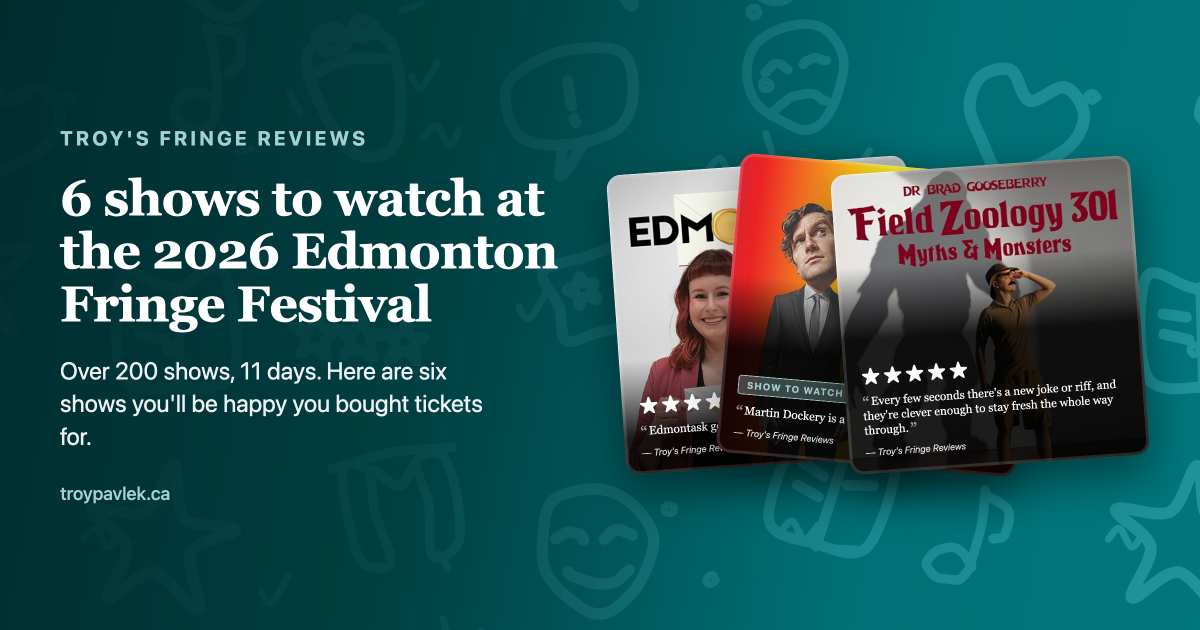
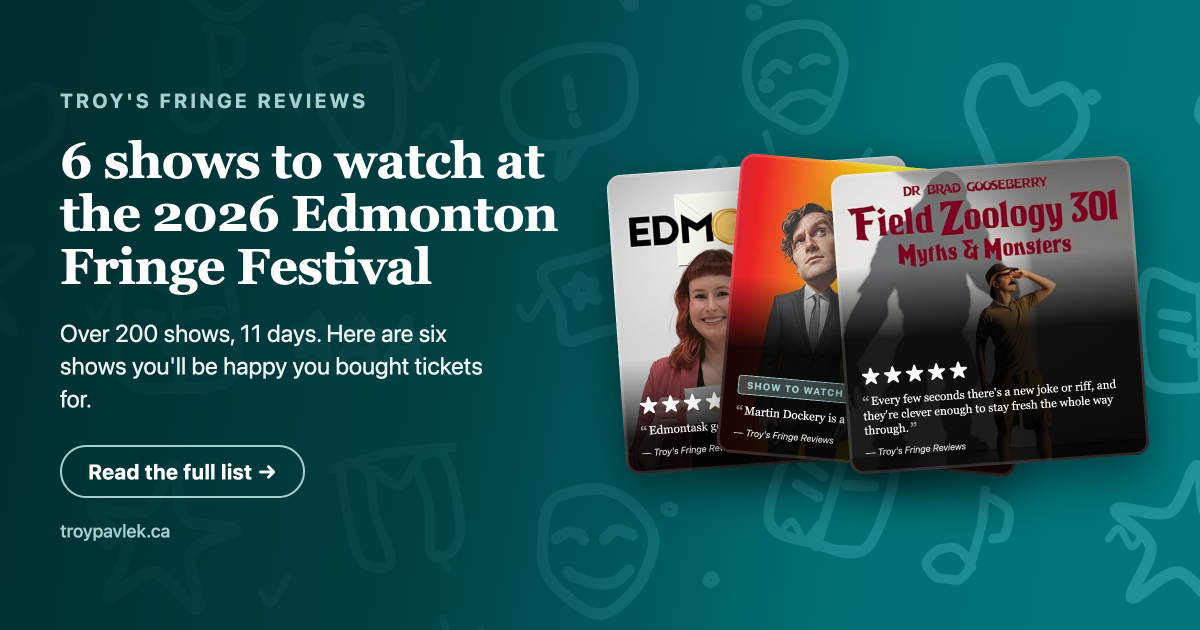
Fringe reviews

diff --git a/resources/views/layout.antlers.html b/resources/views/layout.antlers.html
@@ -4,13 +4,11 @@
         <meta charset="utf-8">
         <meta http-equiv="X-UA-Compatible" content="IE=edge">
         <meta name="viewport" content="width=device-width, initial-scale=1">
-        <title>
-            {{ if og_title }}
-                {{ og_title }}
-            {{ else }}
-                {{ title }} — {{ settings:site_name }}
-            {{ /if }}
-</title>
+        {{# On one line, deliberately. Antlers keeps the newlines and indentation of a
+            multi-line {{ if }}, and they end up inside the element — the title read as 97
+            characters when the text was 53, which is enough for a checker to call it too
+            long and, more to the point, is 44 characters of whitespace on every page. #}}
+        <title>{{ if og_title }}{{ og_title }}{{ else }}{{ title }} — {{ settings:site_name }}{{ /if }}</title>
         <meta name="theme-color" content="00908F">
         {{# Self-referential unless a page names its own canonical. The Fringe reviews index
             does: the current festival answers on both /fringe/reviews and /fringe/{year}/reviews,
@@ -33,6 +31,9 @@
         {{# Posts compute this to `article`, which is what unlocks the byline and published
             date in a share preview. Everything else is a website. #}}
         <meta property="og:type" content="{{ og_type ?? 'website' }}">
+        {{# Discord and Slack print this above the title; without it a shared link is
+            attributed to nobody. #}}
+        <meta property="og:site_name" content="{{ settings:site_name }}">
         {{ if og_title }}
             <meta property="og:title" content="{{ og_title }}">
             <meta name="twitter:title" content="{{ og_title }}">

diff --git a/app/Http/Controllers/OgCardController.php b/app/Http/Controllers/OgCardController.php
@@ -46,7 +46,7 @@ class OgCardController extends Controller
         $format = isset(CardRenderer::FORMATS[$format]) ? $format : 'og';
         [$width, $height] = CardRenderer::FORMATS[$format];
 
-        $headline = trim((string) ($request->query('headline') ?? $defaults['headline'] ?? ''));
+        $headline = $this->text($request, 'headline', $defaults);
         $images = $this->images($request, $defaults);
 
         return response()
@@ -56,9 +56,10 @@ class OgCardController extends Controller
                 'format' => $format,
                 'width' => $width,
                 'height' => $height,
-                'eyebrow' => trim((string) ($request->query('eyebrow') ?? $defaults['eyebrow'] ?? '')),
-                'subhead' => trim((string) ($request->query('subhead') ?? $defaults['subhead'] ?? '')),
-                'footnote' => trim((string) ($request->query('footnote') ?? $defaults['footnote'] ?? '')),
+                'eyebrow' => $this->text($request, 'eyebrow', $defaults),
+                'subhead' => $this->text($request, 'subhead', $defaults),
+                'footnote' => $this->text($request, 'footnote', $defaults),
+                'cta' => $this->text($request, 'cta', $defaults),
                 'images' => $images,
                 // Two cards need less room than three, and the copy should take the slack.
                 'artWidth' => $images ? 300 + (count($images) - 1) * 112 : 0,
@@ -68,6 +69,23 @@ class OgCardController extends Controller
                 'pattern' => '/assets/fringe/fringe-doodles.svg',
             ])
             ->header('X-Robots-Tag', 'noindex, nofollow');
+    }
+
+    /**
+     * A field the caller may override, including with nothing.
+     *
+     * Keyed on the parameter being *present* rather than on its value: Laravel's
+     * ConvertEmptyStringsToNull middleware turns `?cta=` into null before it gets here, so a
+     * `??` chain reads a deliberate blank as "not supplied" and helpfully puts the default
+     * back. `?cta=` means no call to action; omitting it means take the entry's.
+     */
+    private function text(Request $request, string $key, array $defaults): string
+    {
+        if ($request->has($key)) {
+            return trim((string) $request->query($key));
+        }
+
+        return trim((string) ($defaults[$key] ?? ''));
     }
 
     private function headlineSize(string $headline, string $format): int
@@ -121,6 +139,7 @@ class OgCardController extends Controller
             'headline' => $entry->value('og_title') ?: $entry->value('title'),
             'subhead' => $entry->value('og_description'),
             'eyebrow' => $this->eyebrow($entry),
+            'cta' => $this->cta($entry),
             'footnote' => 'troypavlek.ca',
             'images' => $this->entryImages($entry),
         ];
@@ -133,6 +152,18 @@ class OgCardController extends Controller
         }
 
         return EntryFacade::query()->get()->first(fn ($e) => $e->slug() === $id);
+    }
+
+    /**
+     * A card is a link, so it should say what following it gets you. A round-up promises a
+     * list; anything else just promises the post, and claiming otherwise on the one thing
+     * people see before they click is the kind of small lie that costs trust.
+     */
+    private function cta($entry): string
+    {
+        $isList = BardSets::ofType($entry->value('content') ?? [], 'show') !== [];
+
+        return $isList ? 'Read the full list →' : 'Read the post →';
     }
 
     private function eyebrow($entry): string

diff --git a/tests/Feature/OgCardTest.php b/tests/Feature/OgCardTest.php
@@ -207,6 +207,47 @@ class OgCardTest extends TestCase
         $this->assertGreaterThan((int) $og[1], (int) $square[1]);
     }
 
+    /**
+     * A card is a link, so it should say what following it gets you — and say it honestly.
+     * A round-up promises a list; anything else promises only the post.
+     */
+    public function test_a_round_up_promises_the_list_and_anything_else_promises_the_post(): void
+    {
+        $listPost = $this->makePost(['content' => [
+            ['type' => 'set', 'attrs' => ['id' => 'show1', 'values' => [
+                'type' => 'show',
+                'review' => EntryFacade::query()->where('collection', 'fringe_reviews')->get()->first()->id(),
+            ]]],
+        ]]);
+
+        $this->get('/og-card?entry='.$listPost->slug())
+            ->assertOk()
+            ->assertSee('Read the full list', false);
+
+        $prosePost = $this->makePost(['content' => [
+            ['type' => 'paragraph', 'content' => [['type' => 'text', 'text' => 'Just words.']]],
+        ]]);
+
+        $this->get('/og-card?entry='.$prosePost->slug())
+            ->assertOk()
+            ->assertSee('Read the post', false)
+            ->assertDontSee('Read the full list', false);
+    }
+
+    public function test_the_call_to_action_can_be_overridden_and_switched_off(): void
+    {
+        $post = $this->makePost();
+
+        $this->get('/og-card?cta=Book+tickets&entry='.$post->slug())
+            ->assertOk()
+            ->assertSee('Book tickets', false)
+            ->assertDontSee('Read the post', false);
+
+        $this->get('/og-card?cta=&entry='.$post->slug())
+            ->assertOk()
+            ->assertDontSee('class="cta"', false);
+    }
+
     /** A long headline has to step down or it overflows the column beside the artwork. */
     public function test_the_headline_shrinks_as_it_lengthens(): void
     {

diff --git a/tests/Feature/HeadMetaTest.php b/tests/Feature/HeadMetaTest.php
@@ -1,0 +1,41 @@
+<?php
+
+namespace Tests\Feature;
+
+use Tests\TestCase;
+
+/**
+ * The bits of layout.antlers.html that a link-preview checker looks at, and that nothing
+ * else would ever catch: they render, they just render wrong, and the page looks fine.
+ */
+class HeadMetaTest extends TestCase
+{
+    /**
+     * Antlers keeps the newlines and indentation of a multi-line {{ if }}, and they land
+     * inside the element. The title read as 97 characters when the text was 53 — long enough
+     * for a checker to call it truncated in search results, and 44 characters of whitespace
+     * on every page of the site.
+     */
+    public function test_the_title_has_no_whitespace_around_it(): void
+    {
+        // Both branches: a page with its own og_title, and one falling back to the site name.
+        foreach (['/fringe/reviews', '/videos'] as $url) {
+            $html = $this->get($url)->assertOk()->getContent();
+
+            preg_match('~<title>(.*?)</title>~s', $html, $m);
+
+            $this->assertNotEmpty($m[1] ?? '', "No title on {$url}.");
+            $this->assertSame(trim($m[1]), $m[1], "The title on {$url} is padded with whitespace.");
+        }
+    }
+
+    /** Discord and Slack print this above the title; without it a shared link is anonymous. */
+    public function test_every_page_names_the_site(): void
+    {
+        foreach (['/', '/fringe', '/fringe/reviews', '/videos'] as $url) {
+            $this->get($url)
+                ->assertOk()
+                ->assertSee('<meta property="og:site_name" content="Troy Pavlek">', false);
+        }
+    }
+}

diff --git a/resources/views/og/card.blade.php b/resources/views/og/card.blade.php
@@ -120,12 +120,28 @@
             max-width: 19em;
         }
 
+        .square .cta { margin-top: 36px; padding: 15px 32px; font-size: 27px; }
         .square .eyebrow { font-size: 24px; margin-bottom: 26px; }
         .square .subhead { margin-top: 32px; font-size: 32px; max-width: 24em; }
         .square .footnote { margin-top: 34px; font-size: 22px; }
 
-        .footnote {
+        /* A card is a link, and a link should say what happens when you follow it. Bordered
+           rather than filled so it reads as a label on the artwork, not a real button
+           promising a tap target that doesn't exist. */
+        .cta {
+            display: inline-block;
             margin-top: 30px;
+            padding: 12px 26px;
+            border: 2px solid var(--teal-light);
+            border-radius: 999px;
+            font-size: 21px;
+            font-weight: 700;
+            letter-spacing: 0.02em;
+            color: white;
+        }
+
+        .footnote {
+            margin-top: 22px;
             font-size: 18px;
             font-weight: 500;
             color: var(--teal-light);
@@ -198,6 +214,10 @@
 
             @if ($subhead)
                 <p class="subhead">{{ $subhead }}</p>
+            @endif
+
+            @if ($cta)
+                <p><span class="cta">{{ $cta }}</span></p>
             @endif
 
             @if ($footnote)
